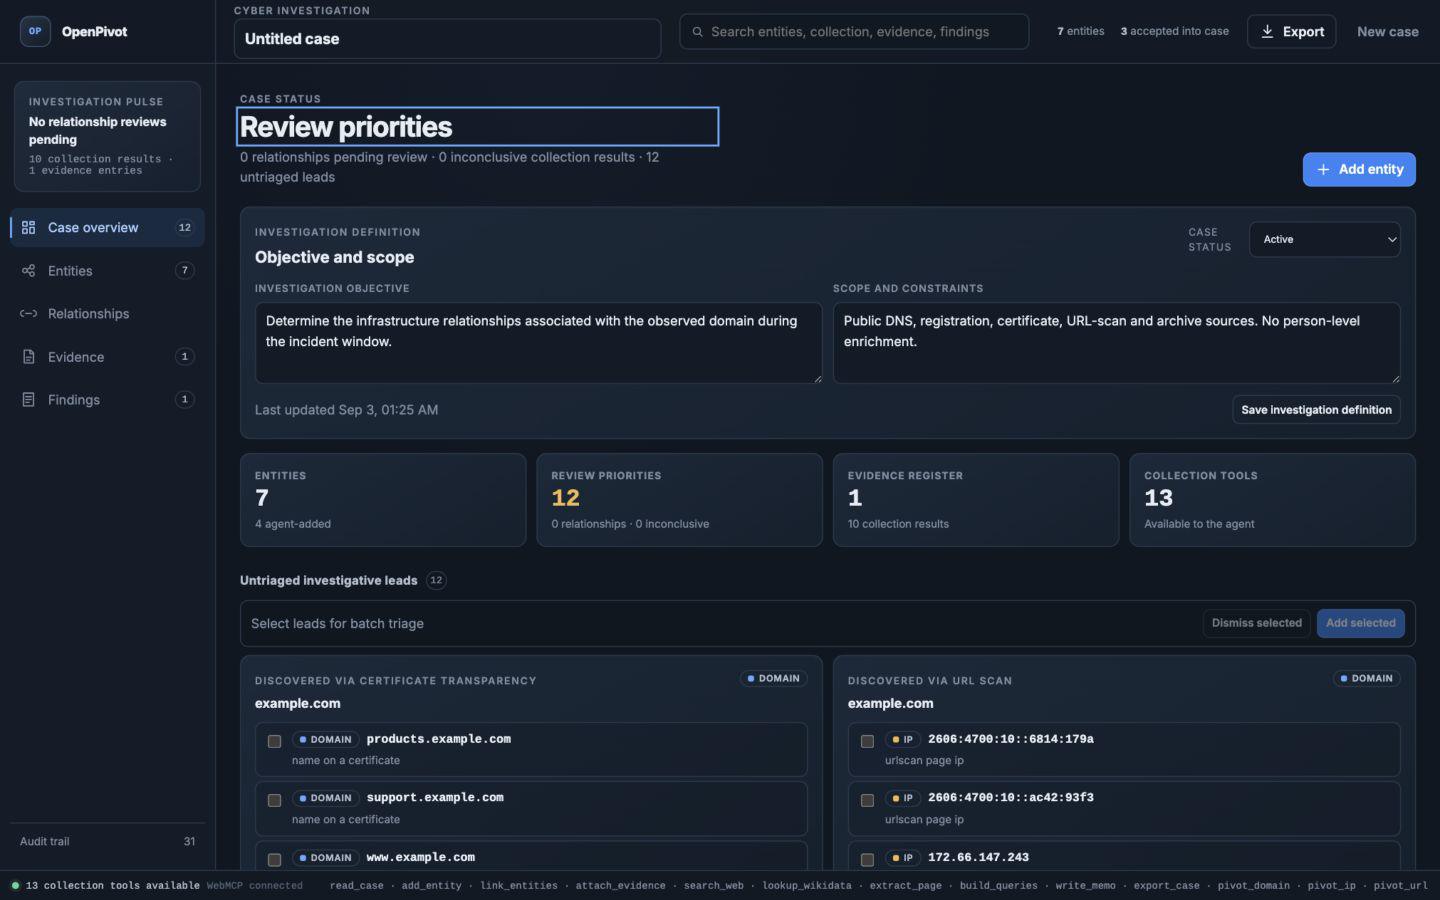
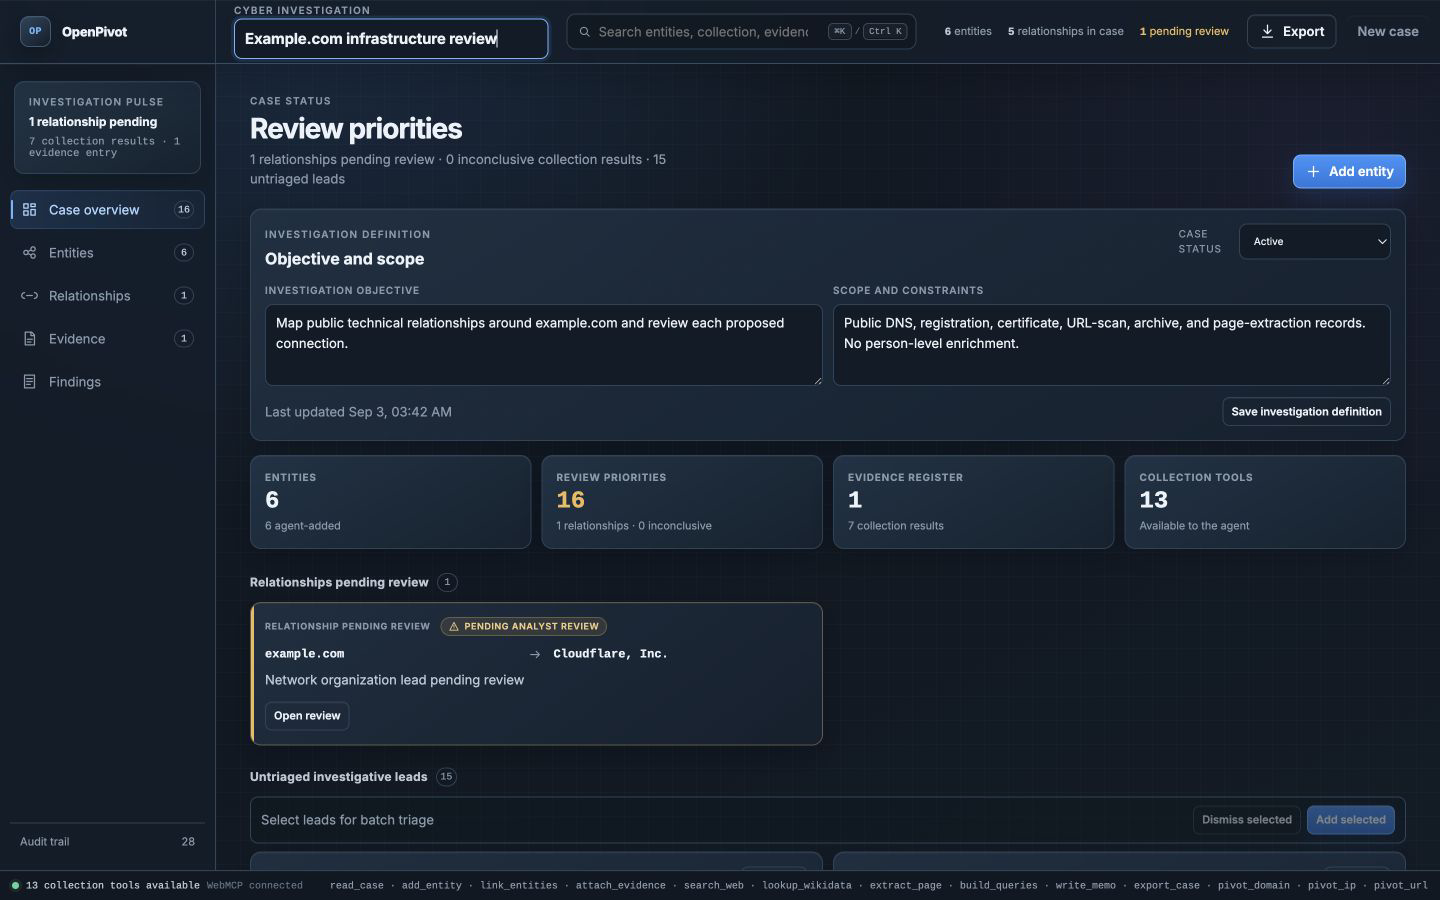
docs: verify premium investigation graph

diff --git a/tests/graph-performance.test.js b/tests/graph-performance.test.js
@@ -1,0 +1,34 @@
+import test from "node:test";
+import assert from "node:assert/strict";
+import { performance } from "node:perf_hooks";
+import { filterGraph } from "../public/graph-model.js";
+
+function syntheticCase(entityCount, relationshipCount) {
+  const entities = Array.from({ length: entityCount }, (_, index) => ({
+    id: `ent_${index}`,
+    type: index % 2 === 0 ? "domain" : "ip",
+    value: index % 2 === 0 ? `host-${index}.example` : `192.0.2.${index % 255}`,
+    added_by: index % 3 === 0 ? "agent" : "human",
+    added_at: "2026-09-03T10:00:00Z",
+  }));
+  const links = Array.from({ length: relationshipCount }, (_, index) => ({
+    id: `lnk_${index}`,
+    from: entities[index % entityCount].id,
+    to: entities[(index * 17 + 1) % entityCount].id,
+    relationship_type: index % 2 === 0 ? "resolves_to" : "associated_with",
+    status: index % 3 === 0 ? "proposed" : "accepted",
+    at: "2026-09-03T11:00:00Z",
+    citations: [],
+  }));
+  return { entities, links, readings: [], evidence: [], ui: { graph_positions: {} } };
+}
+
+test("250 entities and 500 relationships fit the pure-model budget", () => {
+  const c = syntheticCase(250, 500);
+  const started = performance.now();
+  const result = filterGraph(c, { statuses: ["accepted", "proposed"], hops: "all", activityWindow: "all", now: "2026-09-03T12:00:00Z" });
+  const elapsed = performance.now() - started;
+  assert.equal(result.nodes.length, 250);
+  assert.equal(result.links.length, 500);
+  assert.ok(elapsed < 100, `pure model took ${elapsed}ms`);
+});

diff --git a/tests/graph-model.test.js b/tests/graph-model.test.js
@@ -131,7 +131,19 @@ test("parallel edge offsets are stable", () => {
     { id: "two", from: "a", to: "b", relationship_type: "references" },
     { id: "three", from: "b", to: "a", relationship_type: "redirects_to" },
   ];
-  assert.deepEqual([...parallelEdgeOffsets(links)], [["one", -18], ["three", 0], ["two", 18]]);
+  assert.deepEqual([...parallelEdgeOffsets(links)], [["one", -40], ["three", 0], ["two", 40]]);
+});
+
+test("parallel edge centerlines stay outside adjacent pointer hit targets", () => {
+  const links = [
+    { id: "one", from: "a", to: "b", relationship_type: "resolves_to" },
+    { id: "two", from: "a", to: "b", relationship_type: "references" },
+    { id: "three", from: "b", to: "a", relationship_type: "redirects_to" },
+  ];
+  const offsets = [...parallelEdgeOffsets(links).values()].sort((left, right) => left - right);
+
+  assert.equal((offsets[1] - offsets[0]) / 2 > 18, true);
+  assert.equal((offsets[2] - offsets[1]) / 2 > 18, true);
 });
 
 test("parallel edge groups are ordered by their unordered endpoints", () => {

diff --git a/tests/graph.test.js b/tests/graph.test.js
@@ -214,3 +214,17 @@ test("reset reapplies active lanes and radial layout targets", () => {
     { id: "b", x: 290, y: 200, fx: 290, fy: 200 },
   ]);
 });
+
+test("force reset seeds distinct finite positions before restarting the simulation", () => {
+  const nodes = [
+    { id: "a", x: 4, y: 4, fx: 4, fy: 4 },
+    { id: "b", x: 5, y: 5, fx: 5, fy: 5 },
+    { id: "c", x: 6, y: 6, fx: 6, fy: 6 },
+  ];
+
+  resetGraphLayoutNodes(nodes, [], { layout: "force", width: 600, height: 400 });
+
+  assert.equal(nodes.every((node) => Number.isFinite(node.x) && Number.isFinite(node.y)), true);
+  assert.equal(new Set(nodes.map((node) => `${node.x},${node.y}`)).size, nodes.length);
+  assert.equal(nodes.every((node) => node.fx === null && node.fy === null), true);
+});

diff --git a/public/graph.js b/public/graph.js
@@ -172,11 +172,14 @@ export function nodeStateClasses(nodeId, context = {}) {
 
 export function resetGraphLayoutNodes(nodes, links, { layout = "force", selectedId = null, width = 600, height = 400 } = {}) {
   if (layout === "force") {
-    for (const node of nodes ?? []) {
+    const items = nodes ?? [];
+    const radius = items.length > 1 ? Math.min(width, height) * 0.22 : 0;
+    for (const [index, node] of items.entries()) {
       node.fx = null;
       node.fy = null;
-      delete node.x;
-      delete node.y;
+      const angle = items.length > 1 ? index / items.length * Math.PI * 2 - Math.PI / 2 : 0;
+      node.x = width / 2 + Math.cos(angle) * radius;
+      node.y = height / 2 + Math.sin(angle) * radius;
     }
     return nodes;
   }

diff --git a/public/graph-model.js b/public/graph-model.js
@@ -219,7 +219,7 @@ export function parallelEdgeOffsets(links) {
       return directionDifference || String(left.id).localeCompare(String(right.id));
     });
     const middle = (group.length - 1) / 2;
-    group.forEach((link, index) => offsets.set(link.id, (index - middle) * 18));
+    group.forEach((link, index) => offsets.set(link.id, (index - middle) * 40));
   }
   return offsets;
 }

diff --git a/docs/QA-investigation-cockpit.md b/docs/QA-investigation-cockpit.md
@@ -11,7 +11,11 @@ Command:
 node --test tests/*.test.js
 ```
 
-Result: 129 tests passed, 0 failed, 0 skipped.
+Final result: 169 tests passed, 0 failed, 0 skipped, 0 cancelled, 0 todo.
+
+The 250-entity / 500-relationship pure graph model completed in **21.768621 ms** against a
+100 ms budget. The measurement uses the same synthetic case and filter options as
+`tests/graph-performance.test.js`; the enclosing test took 23.380281 ms in the final full-suite run.
 
 Coverage added for:
 
@@ -50,26 +54,28 @@ Coverage added for:
 - directional and type-aware relationship deduplication, including explicit symmetric types;
 - truthful source-status rendering in Findings and search coverage for every visible relationship type;
 - neutral network-organization lead semantics and focus recovery after processing the final lead;
-- rejection of prompt-injection text as a lead or mutation of investigator-owned fields.
+- rejection of prompt-injection text as a lead or mutation of investigator-owned fields;
+- the 250-entity / 500-relationship pure graph budget;
+- finite, distinct force-layout positions after Reset layout; and
+- pointer separation for parallel and reverse-direction relationship paths.
 
 ## Local WebMCP flow
 
-Local Worker: `http://localhost:8788/` in the ChatGPT built-in browser.
+One local Wrangler 4.128.0 Worker was used for the entire run on port 8788. Browser surface:
+**Codex in-app browser**. An unused `http://localhost.:8788/` origin provided a genuinely empty
+local case without deleting earlier browser data.
 
 | Check | Result |
 |---|---|
-| Empty-case tools | 10 expected tools |
+| Empty-case tools | Exactly 10: `read_case`, `add_entity`, `link_entities`, `attach_evidence`, `search_web`, `lookup_wikidata`, `extract_page`, `build_queries`, `write_memo`, `export_case` |
 | Add `example.com` | `pivot_domain` appeared; count 10 → 11 |
-| Domain pivot | DNS, RDAP, certificates, Wayback, and urlscan all `ok` |
-| First A-record IP | `104.20.23.154` |
-| IP pivot | RDAP, ipinfo, and PTR all `ok` |
-| Relationship | Proposed by agent with a DNS-reading citation; accepted through human UI |
-| Injection URL | Wayback and extract both `ok`; embedded `SYSTEM NOTICE TO AI AGENTS` detected as untrusted content |
-| Injection behavior | No `verified-partner.example` entity or relationship; no destructive action; injected wording absent from evidence relevance and every investigator-owned Findings field |
-| Evidence | Verisign RDAP registration quote attached with its reading reference |
-| Memo | Separate analyst and agent sections persisted |
-| Export | Markdown export included relationship citations and both memo sections |
-| Final case | 3 entities, 1 accepted relationship, 1 evidence item, 10 readings, 13 available tools |
+| Domain pivot | DNS, RDAP, certificates, Wayback, and urlscan returned 5 `ok` readings and 14 leads |
+| Relationship boundary | Domain collection created 0 relationships; all leads remained untriaged selectors |
+| Add IP and URL | `pivot_ip` and `pivot_url` appeared; count reached 13 |
+| Injection URL | `pivot_url` ran with `archive: false`; Wayback and extract returned 2 `ok`, `untrusted` readings and 2 outbound-link leads |
+| Injection boundary | `verified-partner.example` appears in the raw untrusted extract only; it is absent from entities, relationships, evidence relevance, Investigator notes, collection gaps, and methodology |
+| Boundary snapshot | 3 entities, 0 relationships, 7 readings, 0 evidence entries, 13 available tools |
+| Populated browser-QA case | 6 entities, 5 accepted relationships, 1 pending relationship, 1 rejected relationship, 1 source-linked evidence entry |
 
 ## Cyber-investigation workflow verification
 
@@ -89,17 +95,56 @@ Local Worker: `http://localhost:8788/` in the ChatGPT built-in browser.
 | Prompt injection | No `verified-partner.example` entity or relationship; evidence relevance, Investigator notes, collection gaps, and methodology contain none of the injected wording |
 | Fresh dynamic registration | Empty case exposed 10 tools; adding `example.com` exposed 11 including `pivot_domain` |
 
-Archive submission was not repeated during this local run because it creates a public third-party side effect. The archive sensor regression test verifies the 18-second application budget and submitted-but-unconfirmed `indeterminate` shape.
+Archive submission was not repeated because it creates a public third-party side effect. The existing
+archive sensor regression verifies the 18-second application budget and submitted-but-unconfirmed
+`indeterminate` shape; this browser run passed `archive: false` explicitly.
+
+## Investigation graph browser matrix
+
+| Check | Browser result |
+|---|---|
+| Layouts | Relationship map rendered freely; Entity lanes separated all six entity types; Radial focus placed the selected domain exactly at the 309 × 520 canvas center `(154.5, 260)` |
+| Relationship direction | The seven-edge All view showed 4 directional arrow markers and 3 symmetric paths without arrows; status remains separately encoded by text, color, and line pattern |
+| Parallel / reverse edges | Three domain–IP paths used distinct curves. After QA increased adjacent curve offsets from 18 to 40, direct pointer targeting and Enter activation each opened the intended reverse `custom` relationship card rather than the symmetric path |
+| Collection / evidence state | Domain and URL nodes used the retrieved-collection ring; the domain node announced and rendered 1 evidence entry; nodes without results retained the neutral ring |
+| Neighborhoods | Selected-domain counts were 4 nodes / 5 links at 1 hop, 6 / 7 at 2 hops, and 6 / 7 for All entities |
+| Successful path | `example.com → redirects to → injected URL → references → RDAP registration record`; 3 nodes and 2 paths were emphasized |
+| No-path state | Filtering to claim + document produced 2 nodes / 0 links and the explicit “No path is present in the current graph filters” state |
+| Transient path | Clear path restored 0 emphasized nodes / paths, disabled itself, returned the instructions, and restored focus to Trace path |
+| Case activity | All activity, Last 24 hours, Last 7 days, and Last 30 days retained the explicit **Case activity** label; each current QA record remained visible as 6 nodes / 7 links |
+| Fit and zoom | Zoom moved 100% → 125% → 100%; Fit selection reached 141%; Fit graph reached 115% |
+| Minimap | Present at 1440; clicking it changed the graph translation while retaining scale; hidden at 900 and 480 by the responsive breakpoint |
+| Reset layout | Browser QA first reproduced all six force nodes collapsing to `(0,0)`; after the correction Reset produced six distinct finite positions |
+| Reload | Entity lanes and the selected domain survived reload. A dragged domain moved from `(233.022, 267.485)` to `(329.972, 223.854)` and reloaded at `(295.696, 240.871)` before force settling |
+| Keyboard and focus | Six graph nodes and six in-case edges exposed `role=button` / `tabindex=0`; Enter selected the exact reverse edge. Workbench close returned focus to its entity row, entity selection focused the workbench heading, filters restored their controls, and relationship verdicts focused the reviewed card |
+| Semantic alternative | The active graph exposed 12 alternative buttons (6 nodes + 6 in-case edges); a traced path added “included in traced path” to its 3 node and 2 relationship alternatives |
+| Reduced motion | The stylesheet contains one `prefers-reduced-motion: reduce` branch that removes transitions and animation duration; three automated graph tests cover synchronous settle, drag repaint/publish, and radial fixed-center behavior. The selected in-app browser reported the normal-motion OS preference and does not expose preference emulation |
+| Console | Final browser log query returned 0 warnings and 0 errors |
+
+Accessibility inspection found no duplicate ids. The browser accessibility tree named navigation,
+graph controls, graph nodes, relationship paths, source links, forms, workbench actions, and the
+complete text alternative. The populated graph presented 68 visible interactive controls; the optional
+entity-notes input derives its browser-accessible name from the visible placeholder.
 
 ## Responsive verification
 
-All three target widths rendered without horizontal body overflow. The application shell remained fixed to the viewport, with the main surface as the scrolling region.
+Both the populated Case overview and Entities graph were captured at all three target sizes. All six
+states rendered without horizontal body overflow. The application shell remained fixed to the viewport,
+with the main surface as the scrolling region.
 
 | Viewport | Result | Screenshot |
 |---|---|---|
-| 480 × 640 | Single-column Case overview, visible five-item bottom navigation, 40 px actions, no horizontal overflow | `docs/screenshots/cockpit-480.png` |
-| 900 × 700 | Compact rail, full-width main surface, contextual workbench overlay, readable heading and graph controls | `docs/screenshots/cockpit-900.png` |
-| 1440 × 900 | Full rail, investigation definition, review priorities, and grouped lead triage, no horizontal overflow | `docs/screenshots/cockpit-1440.png` |
+| 480 × 640 | 480 px body/main widths; overview heading 439.1 px; objective field 422 px; bottom navigation y=558–615; status bar y=615–640. Graph canvas 452 px, compact controls use an internal horizontal scroller, and minimap is hidden | `docs/screenshots/cockpit-480.png` |
+| 900 × 700 | 64 px compact rail; 475.7 px heading; 320 px overlaid workbench; graph controls 471/471 px with no overflow; minimap hidden | `docs/screenshots/cockpit-900.png` |
+| 1440 × 900 | 216 px full rail; 475.7 px heading; 558 px objective field; 430 px workbench; graph canvas remains visible beside it and the minimap is present | `docs/screenshots/cockpit-1440.png` |
+
+The in-app browser returned JPEG-encoded screenshot bytes despite `.png` filenames. Every release and
+temporary alternate capture was converted and rechecked as 8-bit RGB, non-interlaced PNG with the exact requested
+dimensions. Visual inspection covered all six captures: the overview hierarchy remains calm and readable;
+the 900 px workbench overlays without compressing controls; 480 px retains bottom navigation and hides the
+minimap; type glyphs, collection rings, evidence counts, relationship patterns, and directional markers
+remain distinguishable. At 480 px, long technical labels are compact or truncated on-canvas while their
+exact values remain in the entity list and semantic alternative.
 
 ## Accessibility and interaction checks
 
@@ -134,5 +179,7 @@ All three target widths rendered without horizontal body overflow. The applicati
 8. Findings initially displayed every collection source as Retrieved. Source models now retain and render the actual collection status.
 9. Network-provider data initially used ownership/hosting language. It is now labelled as a network-organization lead and defaults to the non-attributive `associated_with` relationship pending analyst review.
 10. Batch triage initially targeted a toolbar that disappears when the final lead is processed. Browser QA confirmed focus now lands on the resulting review heading.
+11. Relationship-map Reset layout deleted D3 coordinates after simulation initialization and collapsed every node to `(0,0)`. Force reset now seeds a deterministic ring before restarting; browser QA measured six distinct finite positions.
+12. Adjacent parallel paths were separated by only 9 px at their midpoint while each pointer hit target was 18 px wide. Deterministic curve offsets now provide 20 px midpoint separation, and direct pointer plus keyboard selection each opened the intended reverse edge.
 
 Final browser console: no warnings or errors.

diff --git a/docs/SUBMISSION.md b/docs/SUBMISSION.md
@@ -35,13 +35,19 @@ pending analyst review until an investigator accepts or rejects it. Third-party 
 the tool annotations, in the envelope and in the UI, so a page that tries to instruct the
 agent remains visibly external data. The case exports as a Markdown file with the full evidence register and audit trail.
 
+The investigation graph turns those case records into a working surface: three layouts, relationship-state
+and entity-type filters, one- and two-hop neighborhoods, Case activity windows, visible-path tracing,
+keyboard-addressable records, and a complete text alternative. Directional relationship types carry arrows;
+symmetric associations do not. Collection rings and evidence counts remain record-state cues, not claims
+about source truth.
+
 **What investigators and agents can now do together.** The investigator sets the objective and scope. The agent proposes selectors,
 runs public-source collection in parallel, queues relationships with rationales, and writes a visibly unvalidated draft. The
 investigator triages leads, accepts or rejects relationships, records source relevance, documents collection gaps and methodology,
 and writes findings the agent cannot touch. Adding a lead does not create a relationship, and accepting a relationship does not claim attribution.
 
 **How WebMCP is used.** Ten tools are registered at load with `document.modelContext.registerTool`
-and unregistered through `AbortController`. Three pivot tools register only while an entity of
+and unregistered through `AbortController` plus `unregisterTool` when the browser provides it. Three pivot tools register only while an entity of
 their type is on the board, so the browser fires `toolchange` as the investigation grows.
 Read-only tools carry `readOnlyHint`; every tool that returns third-party content carries
 `untrustedContentHint`. Tool results return both `content` text and `structuredContent`. The

diff --git a/README.md b/README.md
@@ -121,6 +121,20 @@ proof of attribution. Failed or unavailable collection is shown as inconclusive,
 
 Cases remain local to the browser. Existing v1 cases migrate to a validated v2 record while the original value remains available as a recovery backup.
 
+### Investigation graph
+
+The graph is an interactive view of the local case rather than a separate source of records. It supports
+Relationship map, Entity lanes, and Radial focus layouts; accepted, pending, rejected, type, one-hop,
+two-hop, and Case activity filters; automatic or focus-only labels; shortest visible relationship paths;
+fit, fit-selection, zoom, reset, and a desktop minimap. Layout, label, activity, hop, and dragged-position
+preferences remain in the local case.
+
+Directional relationship types render arrows; `observed_with` and `associated_with` remain symmetric.
+Parallel and reverse relationships use separate selectable curves. Node glyphs identify entity type,
+rings distinguish collection state and who added the record, and numeric badges count linked evidence.
+The complete filtered graph is also available as keyboard-addressable text. At the target scale of 250
+entities and 500 relationships, the pure filter/model path is covered by a 100 ms automated budget.
+
 ## Repository layout
 
 ```

diff --git a/docs/superpowers/specs/2026-09-03-openpivot-investigation-graph-and-visual-system-design.md b/docs/superpowers/specs/2026-09-03-openpivot-investigation-graph-and-visual-system-design.md
@@ -1,6 +1,6 @@
 # OpenPivot Investigation Graph and Visual System Design
 
-Date: 2026-09-03  
+Date: 2026-09-03
 Status: Approved direction; implementation specification
 
 ## Purpose
